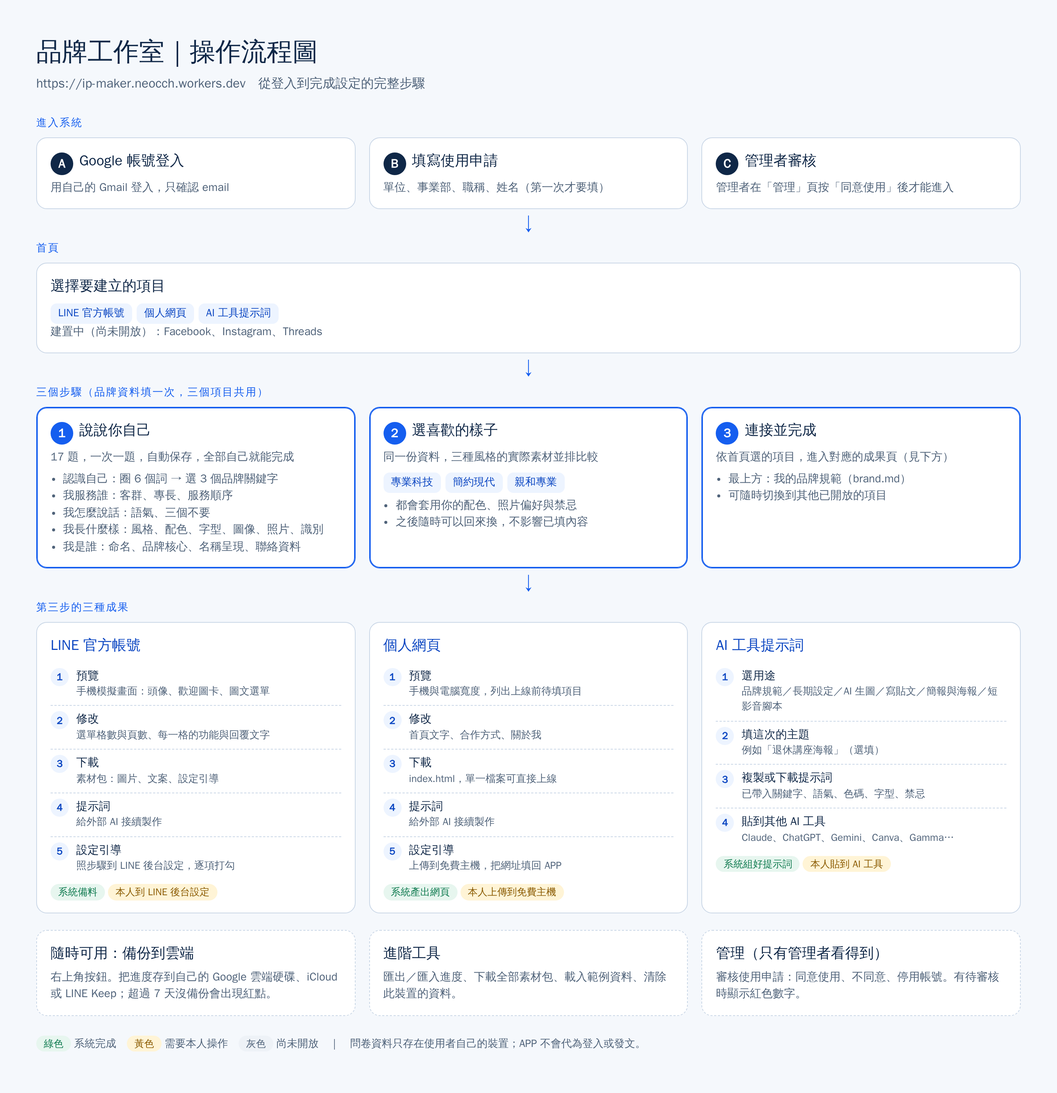
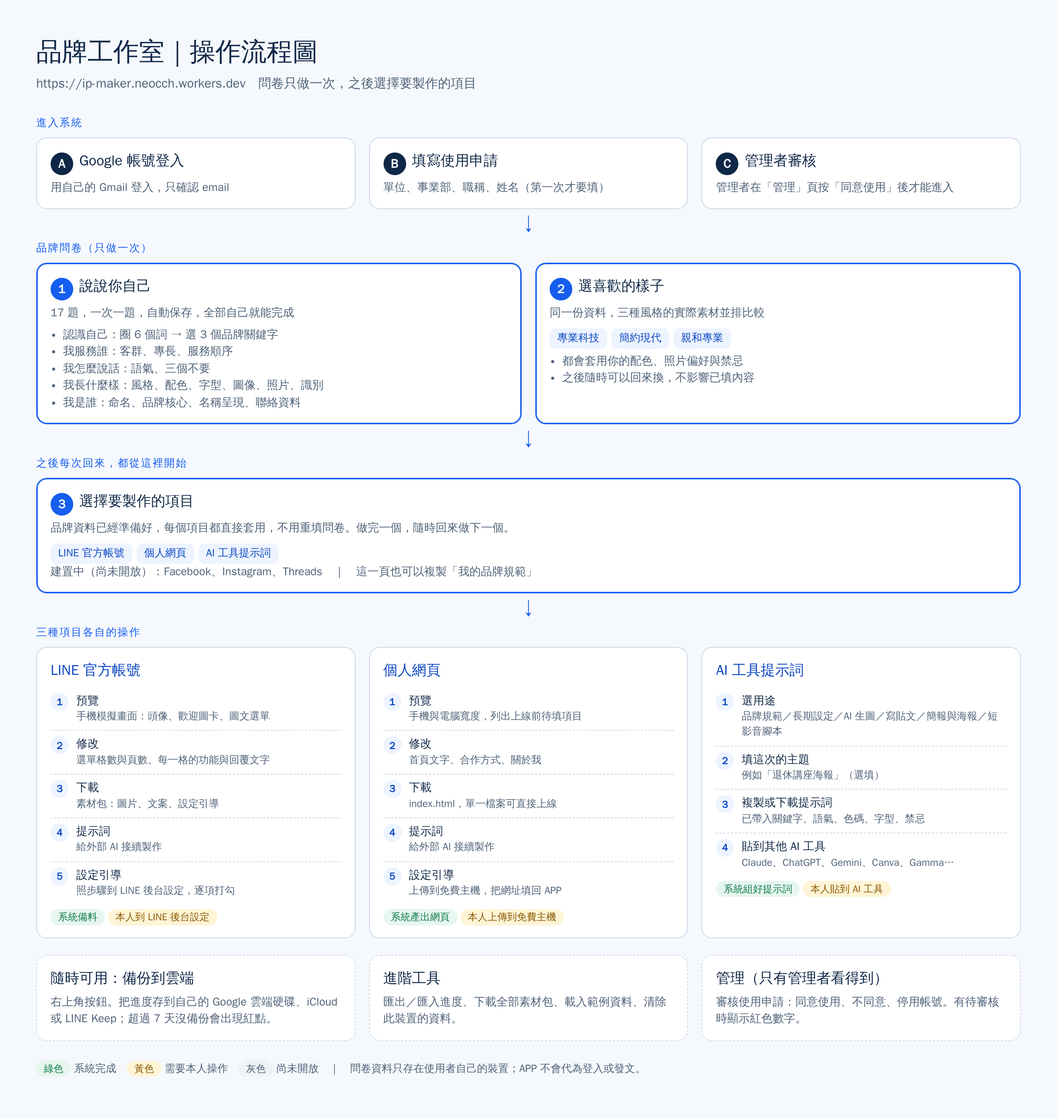
流程調整：品牌問卷只做一次，第三步改為「選擇要製作的項目」
- 首頁不再先選平台，只有開始／繼續建立品牌；問卷完成後首頁直接帶到項目選單
- 第三步（#/results）改為項目選單：LINE 官方帳號、個人網頁、AI 工具提示詞，建置中的項目不可點；
  品牌規範移到這一頁；各項目頁可回到全部項目
- 第二步的下一步改為前往項目選單；新增 meta.profileDone 記錄問卷完成
- 修正：第一次安裝離線功能時頁面會自動重新整理一次，可能打斷正在操作的使用者；
  現在只有更新版本時才重新整理（此問題造成後台畫面測試偶發失敗）
- 更新操作流程圖與 AGENTS.md
- 測試：前端 41 項、後台 29 項通過（後台連跑 4 次穩定）

Claude-Session: https://claude.ai/code/session_018wdkEC3ijks8rAYSoRHc5D

diff --git a/app/js/views/results.js b/app/js/views/results.js
@@ -20,17 +20,6 @@ const TABS = [
   ['preview', '預覽'], ['edit', '修改'], ['download', '下載'], ['prompt', '提示詞'], ['guide', '設定引導'],
 ];
 
-function overview(current) {
-  return `<div class="overview" role="list">${PLATFORMS.map((P) => {
-    if (!isReady(P.id)) return `<div role="listitem" class="ov is-building" aria-disabled="true">${icon(P.icon)}<b>${esc(P.name)}</b><span class="ov-counts"><span class="st st-none">建置中</span></span></div>`;
-    const st = statusOf(P.id, S());
-    const n = (k) => st.filter((x) => x.status === k).length;
-    return `<a role="listitem" class="ov ${P.id === current ? 'is-current' : ''}" href="#/results/${P.id}/${P.id === current ? 'guide' : 'preview'}">
-      ${icon(P.icon)}<b>${esc(P.name)}</b>
-      <span class="ov-counts"><span class="st st-done">已完成 ${n('done')}</span><span class="st st-todo">待本人操作 ${n('todo')}</span><span class="st st-none">尚未串接 ${n('none')}</span></span></a>`;
-  }).join('')}</div>`;
-}
-
 // ---------- 預覽 ----------
 function lineMock(D) {
   const L = S().platforms.lineOA;
@@ -266,7 +255,7 @@ function guideCard(D) {
 }
 
 // ---------- 主畫面 ----------
-const platformNav = (pid, tab) => `<nav class="ptabs" aria-label="成果">${PLATFORMS.map((x) => (isReady(x.id) ? `<a href="#/results/${x.id}/${tab}" aria-current="${x.id === pid ? 'page' : 'false'}">${icon(x.icon, 'ic sm')}${esc(x.name)}</a>` : `<span class="is-building" aria-disabled="true" title="建置中">${icon(x.icon, 'ic sm')}${esc(x.name)}<small>建置中</small></span>`)).join('')}<a href="#/results/ai" aria-current="${pid === 'ai' ? 'page' : 'false'}">${icon(AI_TARGET.icon, 'ic sm')}${esc(AI_TARGET.name)}</a></nav>`;
+const platformNav = (pid, tab) => `<nav class="ptabs" aria-label="製作項目"><a href="#/results">← 全部項目</a>${PLATFORMS.map((x) => (isReady(x.id) ? `<a href="#/results/${x.id}/${tab}" aria-current="${x.id === pid ? 'page' : 'false'}">${icon(x.icon, 'ic sm')}${esc(x.name)}</a>` : `<span class="is-building" aria-disabled="true" title="建置中">${icon(x.icon, 'ic sm')}${esc(x.name)}<small>建置中</small></span>`)).join('')}<a href="#/results/ai" aria-current="${pid === 'ai' ? 'page' : 'false'}">${icon(AI_TARGET.icon, 'ic sm')}${esc(AI_TARGET.name)}</a></nav>`;
 
 /** AI 工具提示詞：依用途選一種，複製後貼到其他 AI 工具 */
 function renderAI(root, kindArg) {
@@ -275,7 +264,7 @@ function renderAI(root, kindArg) {
   const P = AI_PROMPT_BY_ID[kindArg] || AI_PROMPTS[0];
   const miss = missingItems(s, D);
   root.innerHTML = `
-  <div class="page-head"><p class="eyebrow">第三步</p><h1 tabindex="-1">AI 工具提示詞</h1>
+  <div class="page-head"><p class="eyebrow"><a href="#/results">第三步・選擇製作項目</a> ／ AI 工具提示詞</p><h1 tabindex="-1">AI 工具提示詞</h1>
   <p class="lead">你的品牌元素已經整理成提示詞。選一個用途，複製後貼到對應的 AI 工具，產出的內容就會符合你的品牌。</p></div>
   ${platformNav('ai', 'preview')}
   <section class="panel" aria-labelledby="pTitle">
@@ -291,19 +280,41 @@ function renderAI(root, kindArg) {
   </section>`;
 }
 
+/** 第三步的入口：選擇要製作的項目。品牌問卷只做一次，這裡可以反覆回來做不同項目。 */
+function renderHub(root) {
+  const s = S();
+  const D = derive(s);
+  const card = (id, name, ic, summary, extra) => `<a class="pick hub-pick" href="#/results/${id}">${icon(ic)}<b>${esc(name)}</b><small>${esc(summary)}</small>${extra}<span class="go">開始製作 →</span></a>`;
+  root.innerHTML = `
+  <div class="page-head"><p class="eyebrow">第三步</p><h1 tabindex="-1">選擇要製作的項目</h1>
+  <p class="lead">你的品牌資料已經準備好，下面每個項目都會直接套用，不用重填問卷。做完一個，隨時可以回來做下一個。</p></div>
+  ${s.meta.profileDone ? '' : `<div class="conflict"><p>${icon('question')} 品牌問卷還沒做完，現在製作的內容會有比較多「待填」。</p><div class="row"><a class="chip" href="#/profile">回去完成問卷</a></div></div>`}
+  <div class="platform-pick hub">
+    ${PLATFORMS.map((P) => {
+      if (!isReady(P.id)) return `<div class="pick is-building" aria-disabled="true">${icon(P.icon)}<b>${esc(P.name)}</b><small>${esc(P.summary)}</small><span class="st st-none">建置中</span></div>`;
+      const st = statusOf(P.id, s);
+      const todo = st.filter((x) => x.status === 'todo').length;
+      const manualDone = st.filter((x) => x.kind === 'manual' && x.status === 'done').length;
+      return card(P.id, P.name, P.icon, P.summary, `<span class="st ${todo ? 'st-todo' : 'st-done'}">${todo ? (manualDone ? `進行中・還有 ${todo} 步` : `${todo} 個設定步驟`) : '已完成'}</span>`);
+    }).join('')}
+    ${card('ai', AI_TARGET.name, AI_TARGET.icon, AI_TARGET.summary, '<span class="st st-done">可直接使用</span>')}
+  </div>
+  ${guideCard(D)}
+  <div class="actions-row"><a class="btn ghost" href="#/design">← 回第二步換風格</a><a class="btn ghost" href="#/profile">修改品牌問卷</a></div>`;
+}
+
 export function render(root, [pidArg, tabArg]) {
-  if (pidArg === 'ai' || (!pidArg && S().meta.target === 'ai')) return renderAI(root, tabArg);
-  const fallback = isReady(S().meta.target) ? S().meta.target : PLATFORMS.find((p) => isReady(p.id)).id;
-  const pid = PLATFORM_BY_ID[pidArg] && isReady(pidArg) ? pidArg : fallback;
+  if (!pidArg) return renderHub(root);
+  if (pidArg === 'ai') return renderAI(root, tabArg);
+  const pid = PLATFORM_BY_ID[pidArg] && isReady(pidArg) ? pidArg : null;
+  if (!pid) return renderHub(root);
   const tab = TABS.some(([t]) => t === tabArg) ? tabArg : 'preview';
   const D = derive(S());
   const P = PLATFORM_BY_ID[pid];
   const content = { preview: previewTab, edit: editTab, download: downloadTab, prompt: promptTab, guide: guideTab }[tab](pid, D);
   root.innerHTML = `
-  <div class="page-head"><p class="eyebrow">第三步</p><h1 tabindex="-1">連接並完成</h1>
-  <p class="lead">照「預覽 → 修改 → 下載 → 提示詞 → 設定引導」的順序完成。標示「建置中」的平台，完成後會陸續開放。</p></div>
-  ${guideCard(D)}
-  ${overview(pid)}
+  <div class="page-head"><p class="eyebrow"><a href="#/results">第三步・選擇製作項目</a> ／ ${esc(P.name)}</p><h1 tabindex="-1">製作 ${esc(P.name)}</h1>
+  <p class="lead">照「預覽 → 修改 → 下載 → 提示詞 → 設定引導」的順序完成。做完可以回到項目選單，製作其他項目。</p></div>
   ${platformNav(pid, tab)}
   <section class="panel" aria-labelledby="pTitle">
     <header class="panel-head"><h2 id="pTitle">${esc(P.name)}</h2><p>${esc(P.summary)}・風格：${esc(D.design.name)}</p></header>

diff --git a/tests/e2e.test.js b/tests/e2e.test.js
@@ -178,7 +178,7 @@ const TMP = fs.mkdtempSync(path.join(os.tmpdir(), 'brand-e2e-'));
 
   await test('品牌規範：內容完整、待補項目標示、可複製與下載', async () => {
     await page.evaluate(async (u) => { const m = await import(u); localStorage.setItem('brand-studio-v2', JSON.stringify(m.sampleHengYuan())); }, mod('model.js'));
-    await go('#/results/lineOA/preview');
+    await go('#/results');
     assert(await page.isVisible('[data-action="guide-copy"]'), '沒有品牌規範區塊');
     const md = await page.evaluate(async ([g, b]) => { const G = await import(g); const B = await import(b); const st = JSON.parse(localStorage.getItem('brand-studio-v2')); return { md: G.brandMd(st, B.derive(st)), prompt: G.guidePrompt(st, B.derive(st)), miss: G.missingItems(st, B.derive(st)) }; }, [mod('brandguide.js'), mod('brand.js')]);
     for (const k of ['品牌核心', '我是誰', '服務對象', '三個品牌關鍵字', '最像我的 6 個詞', '語氣規則', '三個「不要」', '#155eef', '約 60%', '字型層級', '標題', '內文', '數字', '圖像風格', '識別方式', '衡量當下，規劃長遠'])
@@ -214,14 +214,39 @@ const TMP = fs.mkdtempSync(path.join(os.tmpdir(), 'brand-e2e-'));
   const READY = await page.evaluate(async (u) => (await import(u)).READY_PLATFORMS, mod('platforms.js'));
   const BUILDING = ['facebook', 'website', 'instagram', 'lineOA', 'threads'].filter((p) => !READY.includes(p));
 
-  await test('首頁先選平台；建置中的平台不能點', async () => {
+  await test('問卷只做一次：首頁不先選平台；第三步是項目選單，建置中的項目不能點', async () => {
+    const saved = await state(); // 這項測試用空白資料，結束時還原，避免影響後面的測試
+    await page.evaluate(async (u) => { const m = await import(u); localStorage.setItem('brand-studio-v2', JSON.stringify(m.fresh())); }, mod('model.js'));
     await go('#/');
-    const pickable = await page.$$eval('button.pick', (bs) => bs.map((b) => b.dataset.id));
-    assert(JSON.stringify([...pickable].sort()) === JSON.stringify([...READY, 'ai'].sort()), `可選項目不符：${pickable}`);
-    assert((await page.$$('.pick.is-building')).length === BUILDING.length, '建置中平台數量不符');
-    assert(!(await page.$('.pick.is-building a, a.pick.is-building')), '建置中平台有連結');
-    await page.click(`button.pick[data-id="${READY[0]}"]`);
-    assert((await state()).meta.target === READY[0], '未記錄選擇的平台');
+    assert(!(await page.$('button.pick')), '首頁仍要求先選平台');
+    assert((await page.getAttribute('.home .btn.big', 'href')) === '#/profile', '首頁主按鈕不是開始問卷');
+    // 做完最後一題 → 記錄問卷完成 → 進第二步
+    await page.evaluate((n) => { const st = JSON.parse(localStorage.getItem('brand-studio-v2')); st.meta.qIndex = n; localStorage.setItem('brand-studio-v2', JSON.stringify(st)); }, Object.keys(QI).length - 1);
+    await go('#/profile');
+    await page.click('[data-action="q-next"]');
+    await page.waitForFunction(() => location.hash === '#/design');
+    assert((await state()).meta.profileDone === true, '沒有記錄問卷完成');
+    assert((await page.getAttribute('.actions-row .btn.primary', 'href')) === '#/results', '第二步的下一步不是項目選單');
+    await go('#/results');
+    assert((await page.textContent('h1')).includes('選擇要製作的項目'), '第三步不是項目選單');
+    const items = await page.$$eval('a.hub-pick', (as) => as.map((a) => a.getAttribute('href').split('/').pop()));
+    assert(JSON.stringify([...items].sort()) === JSON.stringify([...READY, 'ai'].sort()), `可選項目不符：${items}`);
+    assert((await page.$$('.hub .pick.is-building')).length === BUILDING.length, '建置中項目數量不符');
+    assert(!(await page.$('.hub .pick.is-building a, .hub a.pick.is-building')), '建置中項目有連結');
+    assert(await page.isVisible('[data-action="guide-copy"]'), '項目選單沒有品牌規範');
+    // 做完一個再回來做另一個，問卷答案不變
+    const before = JSON.stringify((await state()).answers);
+    await page.click(`a.hub-pick[href="#/results/${READY[0]}"]`);
+    await page.waitForSelector('.panel');
+    await page.click('.ptabs a[href="#/results"]');
+    await page.waitForSelector('a.hub-pick');
+    await page.click('a.hub-pick[href="#/results/ai"]');
+    await page.waitForSelector('#aiOut');
+    assert(JSON.stringify((await state()).answers) === before, '切換項目改動了問卷答案');
+    await go('#/');
+    assert((await page.getAttribute('.home .btn.big', 'href')) === '#/results', '問卷完成後首頁沒有直接帶到項目選單');
+    await setState(saved);
+    await go('#/');
   });
 
   await test('已開放平台有 預覽／修改／下載／提示詞／設定引導；建置中平台無連結', async () => {
@@ -265,15 +290,11 @@ const TMP = fs.mkdtempSync(path.join(os.tmpdir(), 'brand-e2e-'));
     assert(await page.isVisible('[data-action="prompt-regen"]'), '未詢問是否重新生成');
   });
 
-  await test('AI 工具提示詞：首頁可選，六種用途都帶入品牌元素，可填主題、複製與下載', async () => {
+  await test('AI 工具提示詞：項目選單可選，六種用途都帶入品牌元素，可填主題、複製與下載', async () => {
     await page.evaluate(async (u) => { const m = await import(u); localStorage.setItem('brand-studio-v2', JSON.stringify(m.sampleHengYuan())); }, mod('model.js'));
-    await go('#/');
-    await page.click('button.pick[data-id="ai"]');
-    assert((await state()).meta.target === 'ai', '未記錄選擇 AI 工具提示詞');
-    assert((await page.textContent('.home > .btn.big')).includes('AI 工具提示詞'), '開始按鈕沒有顯示選擇的項目');
-    await go('#/design');
-    assert((await page.getAttribute('.actions-row .btn.primary', 'href')) === '#/results/ai', '第二步的下一步沒有導向 AI 提示詞');
     await go('#/results');
+    await page.click('a.hub-pick[href="#/results/ai"]');
+    await page.waitForSelector('#aiOut');
     assert((await page.textContent('h1')).includes('AI 工具提示詞'), '第三步沒有顯示 AI 提示詞頁');
     const kinds = await page.$$eval('.subtabs a', (as) => as.map((a) => a.getAttribute('href').split('/').pop()));
     assert(kinds.length === 6, `用途數量 ${kinds.length}`);

diff --git a/app/js/views/home.js b/app/js/views/home.js
@@ -1,47 +1,32 @@
-import { PLATFORMS, isReady, isTarget, targetName, AI_TARGET } from '../platforms.js';
-import { store, commit } from '../store.js';
+// 首頁：品牌問卷只做一次；做完後在第三步選擇要製作的項目，之後隨時可以回來做別的
+import { PLATFORMS, isReady, AI_TARGET } from '../platforms.js';
+import { QUESTIONS } from '../data/questions.js';
+import { store } from '../store.js';
 import { esc } from '../util.js';
 import { icon } from './common.js';
 
-const S = () => store.state;
-
 export function render(root) {
-  const s = S();
+  const s = store.state;
   const started = s.meta.started;
-  const target = isTarget(s.meta.target) ? s.meta.target : PLATFORMS.find((p) => isReady(p.id)).id;
+  const done = s.meta.profileDone === true;
+  const cta = done
+    ? '<a class="btn primary big" href="#/results">選擇要製作的項目 →</a><p class="hint">你的品牌資料已經建立。想修改答案，可以回到「① 說說你自己」。</p>'
+    : `<a class="btn primary big" href="#/profile">${started ? '繼續建立我的品牌' : '開始建立我的品牌'} →</a>${started ? '<p class="hint">你的進度已保存在這台裝置。</p>' : ''}`;
   root.innerHTML = `
   <section class="home">
     <p class="eyebrow">個人品牌工作台</p>
     <h1 tabindex="-1">讓專業，擁有自己的樣子</h1>
-    <p class="lead">回答幾個簡單的問題，系統會用同一份品牌資料，幫你做好社群平台的品牌素材。不需要懂設計或技術。</p>
-    <h2 class="pick-title">先選擇要建立的項目</h2>
-    <div class="platform-pick" role="radiogroup" aria-label="要建立的項目">
-      ${[...PLATFORMS, AI_TARGET].map((p) => {
-        if (p.id === AI_TARGET.id) {
-          const on = target === p.id;
-          return `<button type="button" class="pick" role="radio" aria-checked="${on}" data-action="pick-platform" data-id="${p.id}">${icon(p.icon)}<b>${esc(p.name)}</b><small>${esc(p.summary)}</small><span class="st ${on ? 'st-done' : 'st-none'}">${on ? '已選擇' : '可建立'}</span></button>`;
-        }
-        if (!isReady(p.id))
-          return `<div class="pick is-building" aria-disabled="true">${icon(p.icon)}<b>${esc(p.name)}</b><small>${esc(p.summary)}</small><span class="st st-none">建置中</span></div>`;
-        const on = p.id === target;
-        return `<button type="button" class="pick" role="radio" aria-checked="${on}" data-action="pick-platform" data-id="${p.id}">${icon(p.icon)}<b>${esc(p.name)}</b><small>${esc(p.summary)}</small><span class="st ${on ? 'st-done' : 'st-none'}">${on ? '已選擇' : '可建立'}</span></button>`;
-      }).join('')}
-    </div>
-    <p class="hint">其他平台建置中，完成後會陸續開放。你填的品牌資料之後可以直接沿用，不必重填。</p>
-    <a class="btn primary big" href="#/profile">${started ? '繼續建立' : '開始建立'}我的 ${esc(targetName(target))} →</a>
-    ${started ? '<p class="hint">你的進度已保存在這台裝置。</p>' : ''}
+    <p class="lead">先回答一次品牌問卷，之後想做哪個平台、哪種工具，都用同一份資料，不必重填。不需要懂設計或技術。</p>
+    ${cta}
     <ol class="three-steps">
-      <li class="card"><span class="step-no">1</span><h2>說說你自己</h2><p>一題一題選，也可以直接打字。約 10 分鐘。</p></li>
+      <li class="card"><span class="step-no">1</span><h2>說說你自己</h2><p>${QUESTIONS.length} 題品牌問卷，只需要做一次。一題一題選，也可以直接打字。</p></li>
       <li class="card"><span class="step-no">2</span><h2>選喜歡的樣子</h2><p>看三種風格的實際素材，選一個最像你的。</p></li>
-      <li class="card"><span class="step-no">3</span><h2>連接並完成</h2><p>下載素材、複製文案，照步驟完成設定。</p></li>
+      <li class="card"><span class="step-no">3</span><h2>選擇要製作的項目</h2><p>做完一個，隨時可以回來做下一個。</p></li>
     </ol>
+    <h2 class="pick-title">問卷完成後，可以製作這些項目</h2>
+    <ul class="platform-row" aria-label="可以製作的項目">
+      ${[...PLATFORMS, AI_TARGET].map((p) => `<li class="${p.id === AI_TARGET.id || isReady(p.id) ? '' : 'is-building'}">${icon(p.icon)}<b>${esc(p.name)}</b><small>${p.id === AI_TARGET.id || isReady(p.id) ? esc(p.summary) : '建置中，完成後開放'}</small></li>`).join('')}
+    </ul>
     <p class="note">${icon('shield', 'ic sm')} 免費使用・資料只存在這台裝置・不會代你登入或發文</p>
   </section>`;
-}
-
-export function onAction(act, el) {
-  if (act !== 'pick-platform') return false;
-  S().meta.target = el.dataset.id;
-  commit();
-  return true;
 }

diff --git a/docs/app-flow.html b/docs/app-flow.html
@@ -39,7 +39,7 @@ h1{margin:0 0 4px;font-size:34px}.sub{margin:0 0 28px;color:var(--mut);font-size
 <body>
 <div class="page">
   <h1>品牌工作室｜操作流程圖</h1>
-  <p class="sub">https://ip-maker.neocch.workers.dev　從登入到完成設定的完整步驟</p>
+  <p class="sub">https://ip-maker.neocch.workers.dev　問卷只做一次，之後選擇要製作的項目</p>
 
   <p class="band">進入系統</p>
   <div class="row">
@@ -49,27 +49,25 @@ h1{margin:0 0 4px;font-size:34px}.sub{margin:0 0 28px;color:var(--mut);font-size
   </div>
   <div class="arrow">↓</div>
 
-  <p class="band">首頁</p>
-  <div class="row">
-    <div class="box"><h3>選擇要建立的項目</h3>
-      <div class="chips"><span class="chip">LINE 官方帳號</span><span class="chip">個人網頁</span><span class="chip">AI 工具提示詞</span></div>
-      <p class="building">建置中（尚未開放）：Facebook、Instagram、Threads</p></div>
-  </div>
-  <div class="arrow">↓</div>
-
-  <p class="band">三個步驟（品牌資料填一次，三個項目共用）</p>
+  <p class="band">品牌問卷（只做一次）</p>
   <div class="row">
     <div class="box step"><h3><span class="n">1</span>說說你自己</h3><p>17 題，一次一題，自動保存，全部自己就能完成</p>
       <ul><li>認識自己：圈 6 個詞 → 選 3 個品牌關鍵字</li><li>我服務誰：客群、專長、服務順序</li><li>我怎麼說話：語氣、三個不要</li><li>我長什麼樣：風格、配色、字型、圖像、照片、識別</li><li>我是誰：命名、品牌核心、名稱呈現、聯絡資料</li></ul></div>
     <div class="box step"><h3><span class="n">2</span>選喜歡的樣子</h3><p>同一份資料，三種風格的實際素材並排比較</p>
       <div class="chips"><span class="chip">專業科技</span><span class="chip">簡約現代</span><span class="chip">親和專業</span></div>
       <ul><li>都會套用你的配色、照片偏好與禁忌</li><li>之後隨時可以回來換，不影響已填內容</li></ul></div>
-    <div class="box step"><h3><span class="n">3</span>連接並完成</h3><p>依首頁選的項目，進入對應的成果頁（見下方）</p>
-      <ul><li>最上方：我的品牌規範（brand.md）</li><li>可隨時切換到其他已開放的項目</li></ul></div>
   </div>
   <div class="arrow">↓</div>
 
-  <p class="band">第三步的三種成果</p>
+  <p class="band">之後每次回來，都從這裡開始</p>
+  <div class="row">
+    <div class="box step"><h3><span class="n">3</span>選擇要製作的項目</h3><p>品牌資料已經準備好，每個項目都直接套用，不用重填問卷。做完一個，隨時回來做下一個。</p>
+      <div class="chips"><span class="chip">LINE 官方帳號</span><span class="chip">個人網頁</span><span class="chip">AI 工具提示詞</span></div>
+      <p class="building">建置中（尚未開放）：Facebook、Instagram、Threads　｜　這一頁也可以複製「我的品牌規範」</p></div>
+  </div>
+  <div class="arrow">↓</div>
+
+  <p class="band">三種項目各自的操作</p>
   <div class="split">
     <div class="col"><h3>LINE 官方帳號</h3>
       <ol class="flow">

diff --git a/app/js/model.js b/app/js/model.js
@@ -26,7 +26,7 @@ export function fresh() {
   const s = {
     schemaVersion: SCHEMA_VERSION,
     app: 'brand-studio',
-    meta: { createdAt: now, updatedAt: now, qIndex: 0, started: false, target: 'lineOA', lastBackupAt: '', aiTopics: {} },
+    meta: { createdAt: now, updatedAt: now, qIndex: 0, started: false, target: 'lineOA', lastBackupAt: '', aiTopics: {}, profileDone: false },
     answers: Object.fromEntries([...QUESTIONS.map((q) => q.id), ...EXTRA_ANSWER_IDS].map((id) => [id, []])),
     freeform: Object.fromEntries(QUESTIONS.map((q) => [q.id, ''])),
     resolutions: {},
@@ -103,6 +103,7 @@ export function sanitize(x) {
   n.meta.createdAt = str(x.meta?.createdAt, 40) || n.meta.createdAt;
   n.meta.qIndex = Math.min(QUESTIONS.length - 1, Math.max(0, Math.floor(Number(x.meta?.qIndex)) || 0));
   n.meta.started = x.meta?.started === true;
+  n.meta.profileDone = x.meta?.profileDone === true;
   n.meta.target = PLATFORM_IDS.includes(x.meta?.target) || x.meta?.target === 'ai' ? x.meta.target : 'lineOA';
   n.meta.aiTopics = {};
   if (x.meta?.aiTopics && typeof x.meta.aiTopics === 'object')
@@ -280,6 +281,7 @@ export function sampleHengYuan() {
   n.identity.positioning = '退休規劃・企業與家庭風險';
   n.selectedDesignId = 'tech';
   n.meta.started = true;
+  n.meta.profileDone = true;
   syncEntries(n);
   n.platforms.lineOA.count = 8; // 範例使用 8 格
   n.platforms.lineOA.entries[0].label = '認識衡遠';

diff --git a/app/js/views/design.js b/app/js/views/design.js
@@ -6,7 +6,6 @@ import { proposalBoard } from '../draw.js';
 import { store, commit, save } from '../store.js';
 import { esc, toast } from '../util.js';
 import { icon } from './common.js';
-import { targetName } from '../platforms.js';
 import { qIndexOf } from '../data/questions.js';
 
 const S = () => store.state;
@@ -46,7 +45,7 @@ export function render(root) {
     <label class="field"><span>想調整的地方（選填）</span><textarea data-design-notes rows="3" maxlength="3000" placeholder="例如：標題再大一點、少一點線條…">${esc(s.designNotes)}</textarea></label>
     <p class="hint">這段文字會保存並帶入提示詞，交給外部 AI 或設計夥伴處理。目前系統不會自動理解文字並改圖。</p>
   </div>
-  <div class="actions-row"><a class="btn ghost" href="#/profile">← 回第一步修改</a><a class="btn primary" href="#/results/${s.meta.target}">下一步：查看 ${esc(targetName(s.meta.target))} →</a></div>`;
+  <div class="actions-row"><a class="btn ghost" href="#/profile">← 回第一步修改</a><a class="btn primary" href="#/results">下一步：選擇要製作的項目 →</a></div>`;
   paintBoards(root);
 }
 

diff --git a/app/css/app.css b/app/css/app.css
@@ -410,3 +410,14 @@ input[readonly] { background: var(--c-bg); color: var(--c-muted); }
 .connect-card { border-color: #cfe0fb; }
 .connect-card h3 { display: flex; align-items: center; gap: var(--s2); }
 .connect-card details summary { cursor: pointer; min-height: 44px; display: flex; align-items: center; color: var(--c-primary-ink); font-weight: 600; }
+
+/* 第三步：項目選單 */
+.hub { margin-bottom: var(--s5); }
+a.hub-pick { text-decoration: none; cursor: pointer; transition: border-color .15s, box-shadow .15s, transform .12s; }
+a.hub-pick:hover { border-color: var(--c-primary); box-shadow: 0 6px 16px rgba(21, 94, 239, .12); }
+a.hub-pick:active { transform: scale(.99); }
+.hub-pick .go { color: var(--c-primary-ink); font-weight: 700; margin-top: 6px; }
+.platform-row li.is-building { background: var(--c-bg); border-style: dashed; color: var(--c-muted); }
+.platform-row li.is-building .ic { color: var(--c-muted); }
+.page-head .eyebrow a { color: inherit; }
+@media (min-width: 760px) { .platform-row { grid-template-columns: repeat(3, 1fr); } }

diff --git a/app/index.html b/app/index.html
@@ -21,7 +21,7 @@
     <nav class="stepper" aria-label="建立步驟">
       <a href="#/profile" data-step="1"><span class="n">1</span><span class="t">說說你自己</span></a>
       <a href="#/design" data-step="2"><span class="n">2</span><span class="t">選喜歡的樣子</span></a>
-      <a href="#/results" data-step="3"><span class="n">3</span><span class="t">連接並完成</span></a>
+      <a href="#/results" data-step="3"><span class="n">3</span><span class="t">選擇製作項目</span></a>
     </nav>
     <div class="topbar-tools">
       <button type="button" class="btn ghost sm cloud-btn" id="cloudBtn" data-action="cloud-backup" aria-describedby="cloudHint"><svg class="ic sm" viewBox="0 0 24 24" aria-hidden="true"><path d="M7 18h10.5a4 4 0 0 0 .6-7.96A6 6 0 0 0 6.6 9.1 4.5 4.5 0 0 0 7 18zM12 15V9m-2.5 2.5L12 9l2.5 2.5"/></svg><span>備份到雲端</span><i class="dot" hidden></i></button>

diff --git a/app/js/main.js b/app/js/main.js
@@ -123,9 +123,11 @@ if ('serviceWorker' in navigator && location.protocol !== 'file:') {
       });
     });
   }).catch(() => {});
+  // 只有「更新版本」時才重新整理；第一次安裝離線功能時不重整，避免打斷正在操作的使用者
+  const hadController = !!navigator.serviceWorker.controller;
   let reloaded = false;
   navigator.serviceWorker.addEventListener('controllerchange', () => {
-    if (reloaded) return;
+    if (reloaded || !hadController) return;
     reloaded = true;
     location.reload();
   });

diff --git a/app/js/views/profile.js b/app/js/views/profile.js
@@ -297,7 +297,7 @@ export function onAction(act, el) {
     case 'q-next':
       s.meta.started = true;
       if (s.meta.qIndex < QUESTIONS.length - 1) { s.meta.qIndex++; commit(); focusTitle(); }
-      else { save(); location.hash = '#/design'; }
+      else { s.meta.profileDone = true; save(); location.hash = '#/design'; }
       break;
     case 'q-jump': s.meta.qIndex = +el.dataset.i; commit(); focusTitle(); break;
     default: return false;

diff --git a/app/sw.js b/app/sw.js
@@ -1,5 +1,5 @@
 // Service worker：預先快取全部檔案，離線可用；新版本等使用者按「更新」才切換，避免編輯到一半被重新整理。
-const VERSION = 'brand-studio-2.12.0';
+const VERSION = 'brand-studio-2.13.1';
 const FILES = [
   './',
   './index.html',

diff --git a/AGENTS.md b/AGENTS.md
@@ -43,6 +43,7 @@ node tests/worker.test.js
 需要 Node 22、Playwright（Chromium）、Python 3 與 Pillow。
 
 ## 產品決定（2026-11）
+- **流程順序**：品牌問卷（第一步）與選風格（第二步）只做一次；第三步是「選擇要製作的項目」選單（`#/results`），之後隨時回來做其他項目。首頁不先選平台。
 - LINE 官方帳號採「**系統備料、本人自己設定**」。代設功能（`worker/line.js`）程式保留，但正式站**不設定 `TOKEN_KEY`**，因此停用且介面不顯示。除非擁有者明確要求，不要啟用。
 - 新使用者的圖文選單預設為**單頁 6 格**（LINE 後台可自行設定的版型）；8 格與雙頁仍可選，但需要 Messaging API。
 
